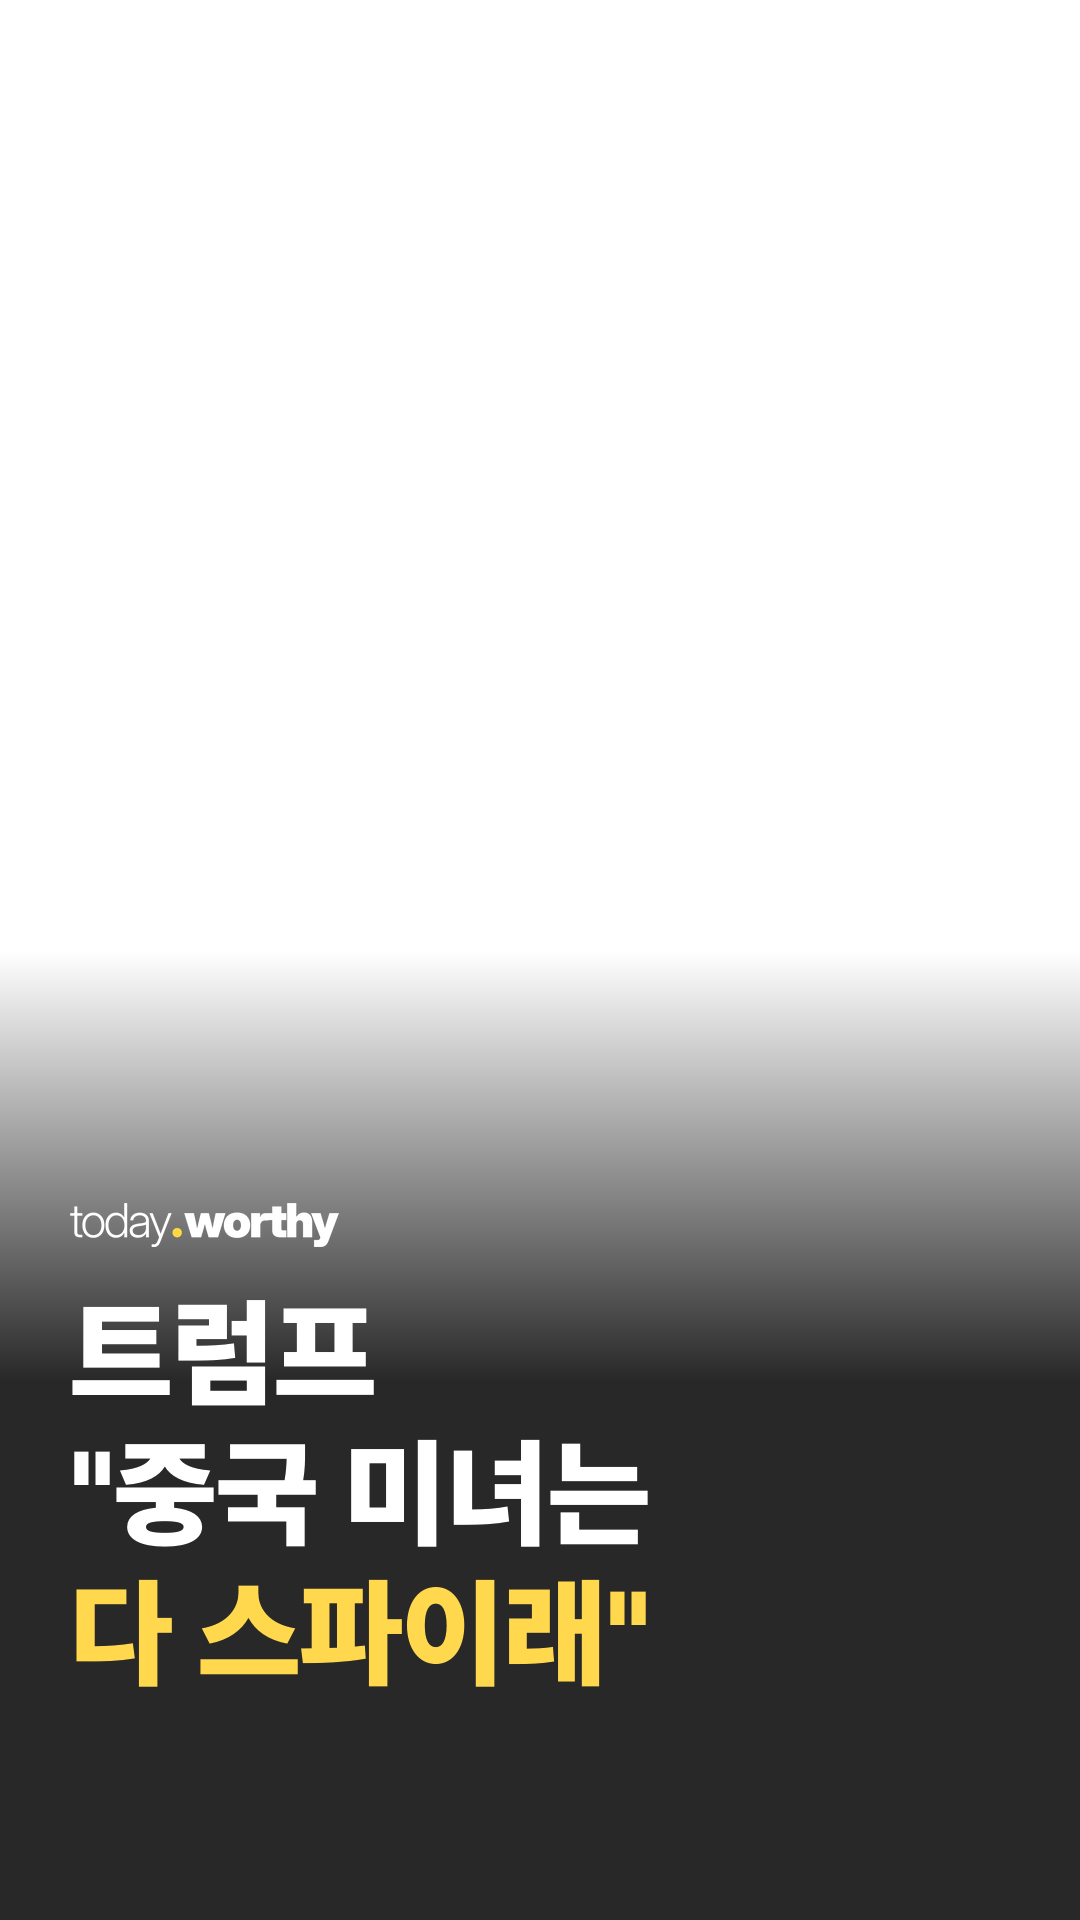
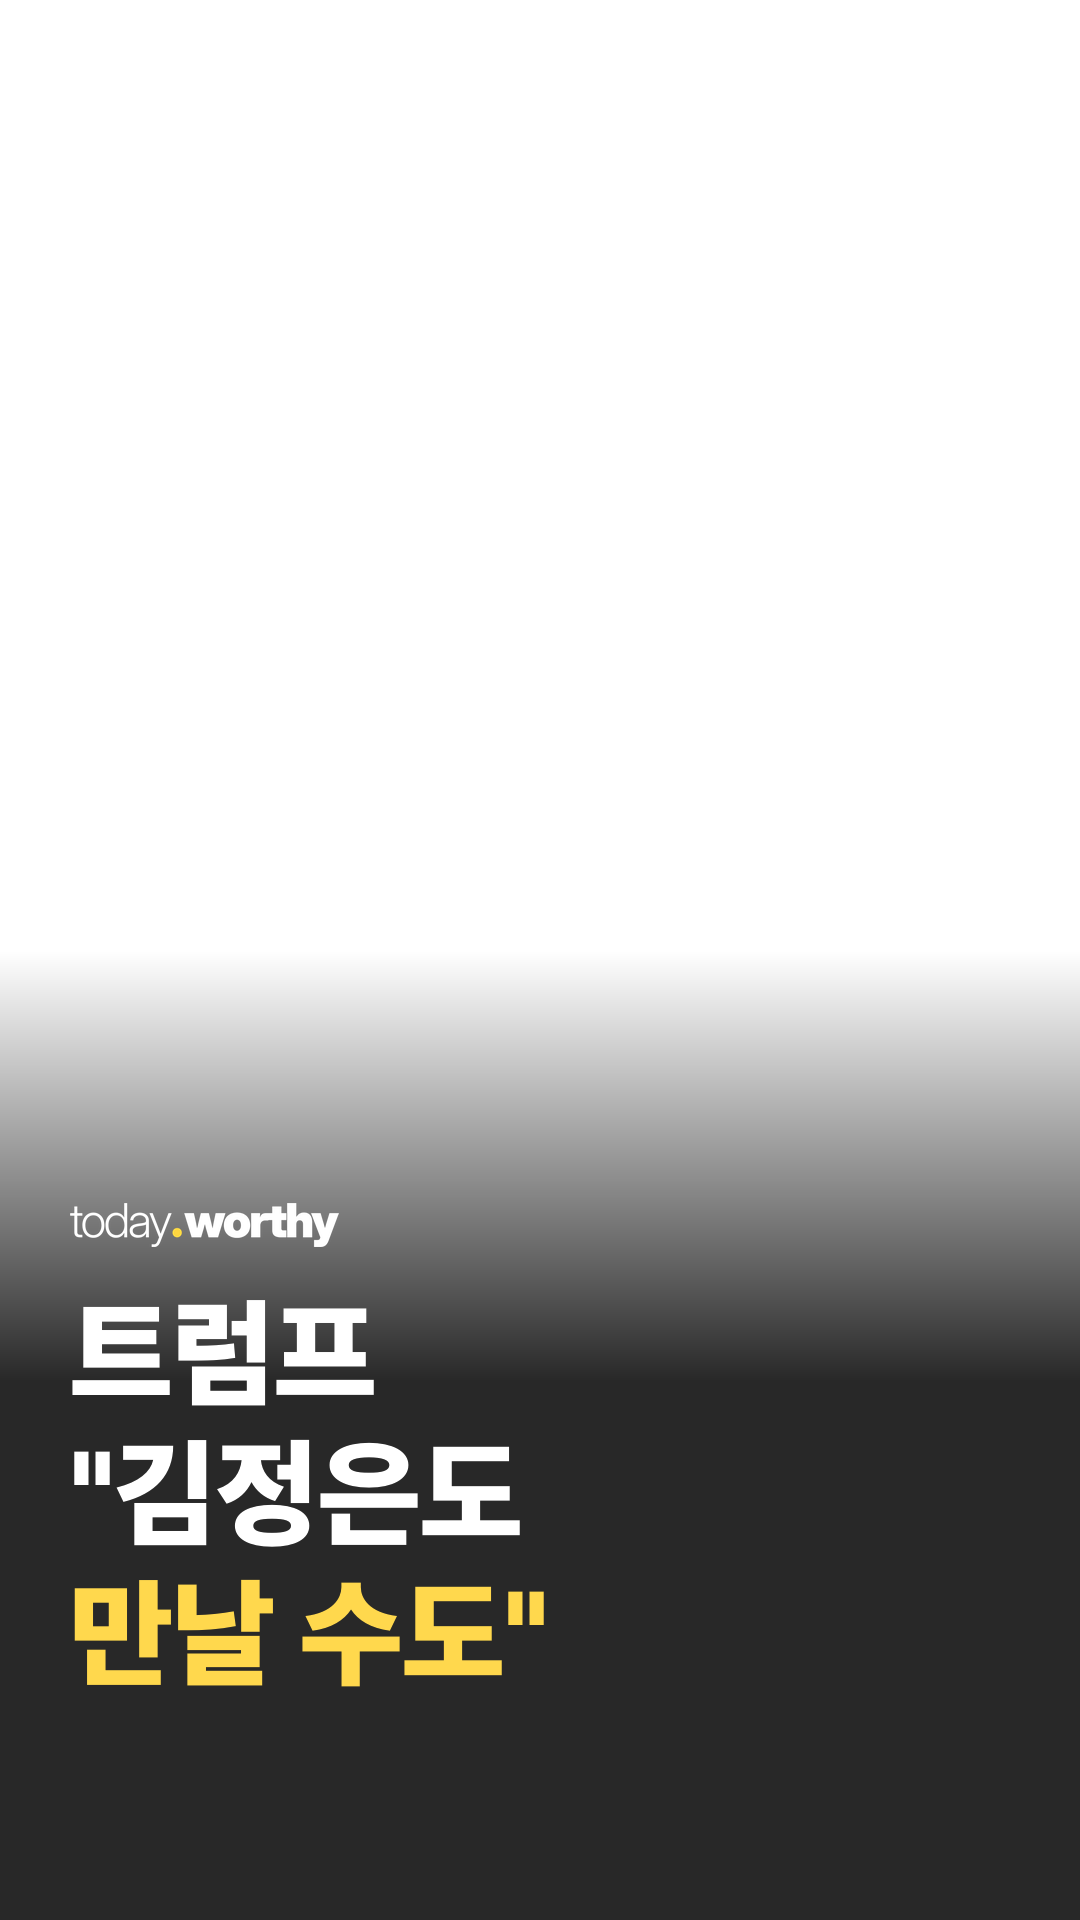
trumpjh-reel: 커버를 김정은 발언으로 교체
Claude-Session: https://claude.ai/code/session_01FGsw5QnWxFUsnopcB1Czie

Changed region(s): [[0.0611, 0.75, 0.6111, 0.875]]

diff --git a/media/20261116-trumpjh-reel/build.py b/media/20261116-trumpjh-reel/build.py
@@ -59,7 +59,7 @@ for k,(src,ss,dur,crop,caps) in enumerate(S):
 open(f'{R}/list.txt','w').write(''.join(f"file '{s}'\n" for s in segs))
 subprocess.run(['ffmpeg','-v','error','-y','-f','concat','-safe','0','-i',f'{R}/list.txt','-af','loudnorm=I=-16:TP=-1.5','-c:v','copy','-c:a','aac','-b:a','160k','-movflags','+faststart',f'{D}/reel.mp4'],check=True)
 # 커버: 검정 바탕 + 가운데 위 띠(가장 센 장면) + 아래 격자 통일형 큰 제목
-subprocess.run(['ffmpeg','-v','error','-y','-ss','12.0','-i',f'{V}/v4.mp4','-frames:v','1','-vf',f'crop={C4},scale=1080:{BH}',f'{R}/cov_band.jpg'],check=True)
+subprocess.run(['ffmpeg','-v','error','-y','-ss','25.0','-i',f'{V}/v2.mp4','-frames:v','1','-vf',f'crop={C2},scale=1080:{BH}',f'{R}/cov_band.jpg'],check=True)
 bg=Image.new('RGB',(1080,1920),(0,0,0)); bg.paste(Image.open(f'{R}/cov_band.jpg'),(0,330)); bg.save(f'{R}/cov_bg.jpg',quality=95)
-subprocess.run(['python3','scripts/reel_overlay.py',f'{D}/cand/overlay.png','트럼프\n"중국 미녀는\n다 스파이래"','',f'{R}/cov_bg.jpg',f'{D}/reel_cover.jpg'],check=True)
+subprocess.run(['python3','scripts/reel_overlay.py',f'{D}/cand/overlay.png','트럼프\n"김정은도\n만날 수도"','',f'{R}/cov_bg.jpg',f'{D}/reel_cover.jpg'],check=True)
 print('done')
